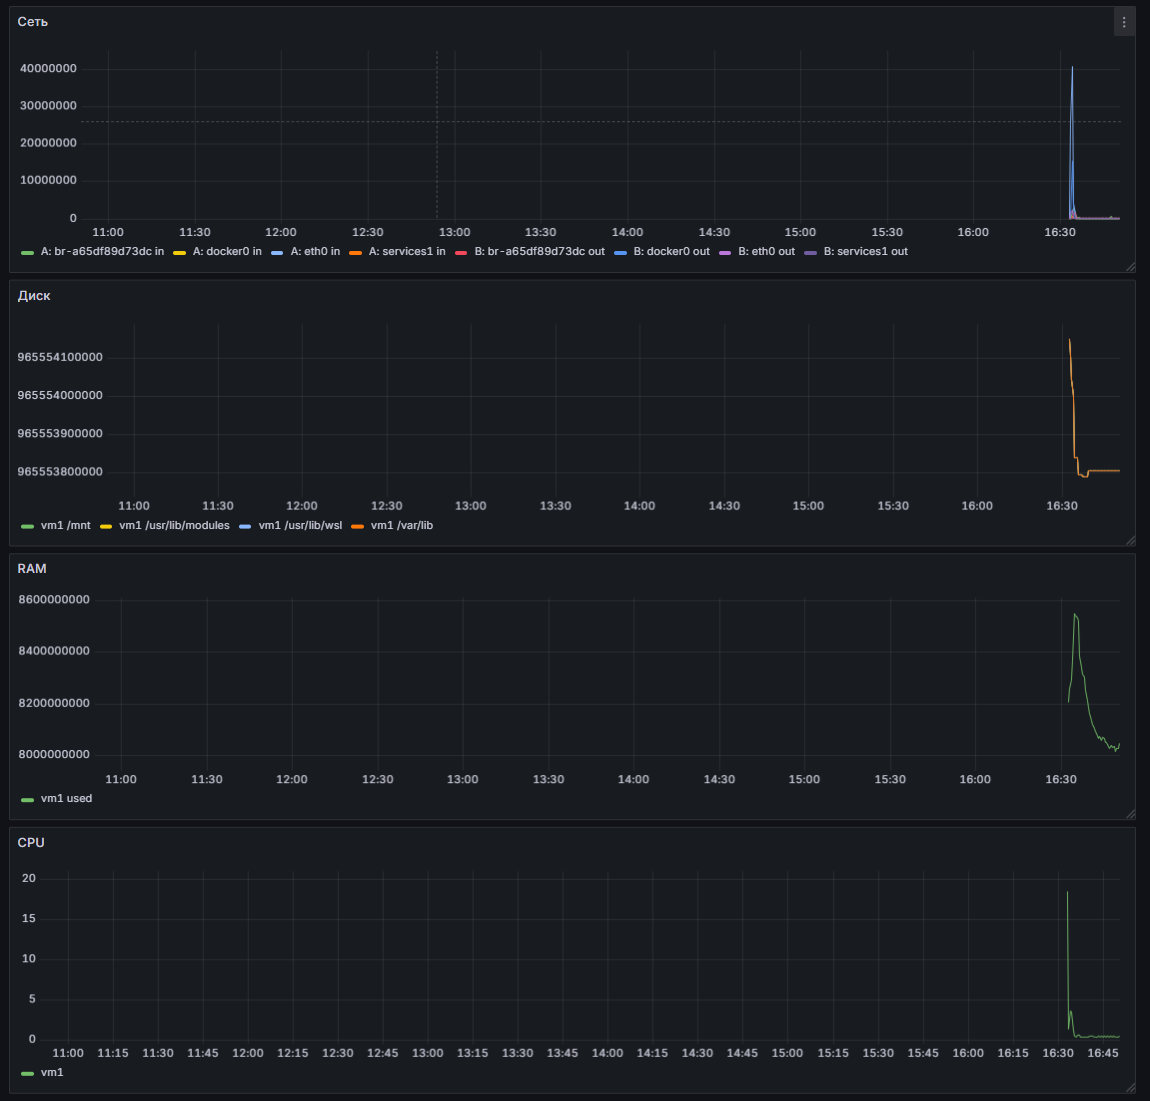
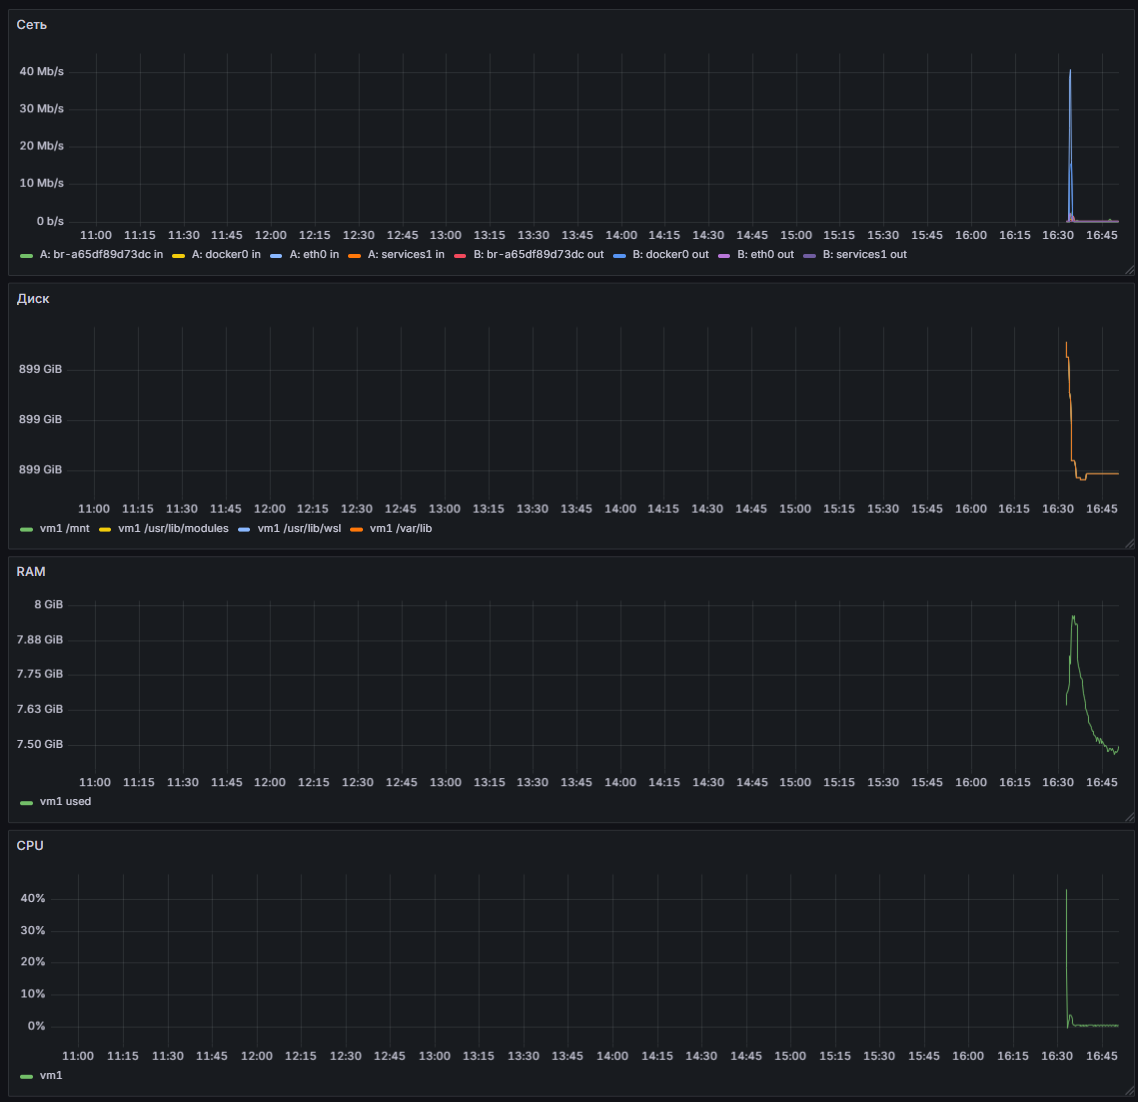
add

diff --git a/README.md b/README.md
@@ -1,0 +1,138 @@
+# ДЗ 3: мониторинг и Docker
+
+## Задание 1. Мониторинг
+
+Файлы: `monitoring/compose.yaml`, `monitoring/prometheus/prometheus.yml`, `monitoring/grafana/dashboard.json`.
+
+В `prometheus.yml` добавил задание `node`:
+
+```yaml
+  - job_name: node
+    static_configs:
+      - targets: [host.docker.internal:9100]
+        labels:
+          instance: vm1
+```
+
+У меня Docker Desktop, и сначала Prometheus не видел node-exporter (`connection refused`).
+
+Запуск и проверка:
+
+```console
+$ cd monitoring && docker compose up -d
+$ docker compose ps
+NAME                         IMAGE                       STATUS          PORTS
+monitoring-grafana-1         grafana/grafana:12.1.0      Up 42 minutes   127.0.0.1:3000->3000/tcp
+monitoring-node-exporter-1   prom/node-exporter:v1.9.1   Up 42 minutes
+monitoring-prometheus-1      prom/prometheus:v3.5.0      Up 42 minutes   127.0.0.1:9090->9090/tcp
+
+$ curl -s localhost:9100/metrics | grep -E '^node_(memory_MemAvailable|cpu_seconds_total\{cpu="0",mode="(idle|user)")'
+node_cpu_seconds_total{cpu="0",mode="idle"} 183393.65
+node_cpu_seconds_total{cpu="0",mode="user"} 251.37
+node_memory_MemAvailable_bytes 8.01898496e+09
+
+$ curl -s 'localhost:9090/api/v1/query?query=up{job="node"}'
+{"status":"success","data":{"resultType":"vector","result":[{"metric":{"__name__":"up","instance":"vm1","job":"node"},"value":[1791728102.956,"1"]}]}}
+```
+
+Цель `vm1` в Prometheus:
+
+![targets](screenshots/targets.png)
+
+Источник данных в Grafana (URL `http://prometheus:9090`):
+
+![datasource](screenshots/datasource.png)
+
+Дашборд с переменной `instance` и четырьмя панелями. Во всех запросах есть фильтр `{instance=~"$instance"}`.
+
+| Панель | Запрос |
+| ------ | ------ |
+| CPU, % | `100 * (1 - avg by (instance) (rate(node_cpu_seconds_total{mode="idle", instance=~"$instance"}[$__rate_interval])))` |
+| RAM, байты | `node_memory_MemTotal_bytes{instance=~"$instance"} - node_memory_MemAvailable_bytes{instance=~"$instance"}` |
+| Диск, байты | `node_filesystem_avail_bytes{instance=~"$instance", fstype!~"tmpfs\|9p\|overlay\|squashfs"}` |
+| Сеть, бит/с | `rate(node_network_receive_bytes_total{instance=~"$instance", device!~"lo\|veth.*"}[$__rate_interval]) * 8` и то же для `transmit` |
+
+![dashboard](screenshots/dashboard.png)
+
+## Задание 2. Docker-образ для counter-backend
+
+Dockerfile лежат в `counter-backend/`: `Dockerfile.single`, `Dockerfile.multistage`, `Dockerfile.nonroot`.
+
+Одно отличие от команд из задания: вместе с Poetry ставлю `poetry-plugin-export`.
+В Poetry 2.x без этого плагина нет команды `poetry export`.
+
+Сборка:
+
+```console
+$ cd counter-backend
+$ docker build -f Dockerfile.single -t counter-backend:single .
+$ docker build -f Dockerfile.multistage -t counter-backend:multistage .
+$ docker build -f Dockerfile.nonroot -t counter-backend:nonroot .
+```
+
+### single
+
+```console
+$ docker run -d --rm --name cb-single -p 127.0.0.1:18081:8080 counter-backend:single
+$ curl -s localhost:18081/api/counter
+{"count": 0}
+$ curl -si -X POST localhost:18081/api/counter | sed -n '1p;$p'
+HTTP/1.1 201 Created
+{"count": 1}
+$ curl -si -X POST localhost:18081/api/counter | sed -n '1p;$p'
+HTTP/1.1 201 Created
+{"count": 2}
+$ docker exec cb-single id
+uid=0(root) gid=0(root) groups=0(root)
+```
+
+### multistage
+
+```console
+$ docker run -d --rm --name cb-multistage -p 127.0.0.1:18082:8080 counter-backend:multistage
+$ curl -s localhost:18082/api/counter
+{"count": 0}
+$ curl -si -X POST localhost:18082/api/counter | sed -n '1p;$p'
+HTTP/1.1 201 Created
+{"count": 1}
+$ curl -si -X POST localhost:18082/api/counter | sed -n '1p;$p'
+HTTP/1.1 201 Created
+{"count": 2}
+$ docker exec cb-multistage id
+uid=0(root) gid=0(root) groups=0(root)
+```
+
+### nonroot
+
+```console
+$ docker run -d --rm --name cb-nonroot -p 127.0.0.1:18083:8080 counter-backend:nonroot
+$ curl -s localhost:18083/api/counter
+{"count": 0}
+$ curl -si -X POST localhost:18083/api/counter | sed -n '1p;$p'
+HTTP/1.1 201 Created
+{"count": 1}
+$ curl -si -X POST localhost:18083/api/counter | sed -n '1p;$p'
+HTTP/1.1 201 Created
+{"count": 2}
+$ docker exec cb-nonroot id
+uid=1001(user) gid=1001(user) groups=1001(user),100(users)
+```
+
+### Размеры образов
+
+```console
+$ docker image ls counter-backend --format 'table {{.Repository}}:{{.Tag}}\t{{.Size}}'
+REPOSITORY:TAG               SIZE
+counter-backend:nonroot      234MB
+counter-backend:multistage   234MB
+counter-backend:single       380MB
+```
+
+| Образ | Размер | Пользователь |
+| ----- | ------ | ------------ |
+| single | 380 MB | root |
+| multistage | 234 MB | root |
+| nonroot | 234 MB | user (1001) |
+
+Многоступенчатый образ меньше на 146 MB, потому что в него не попадает Poetry.
+У nonroot размер почти такой же, как у multistage: добавился только пользователь.
